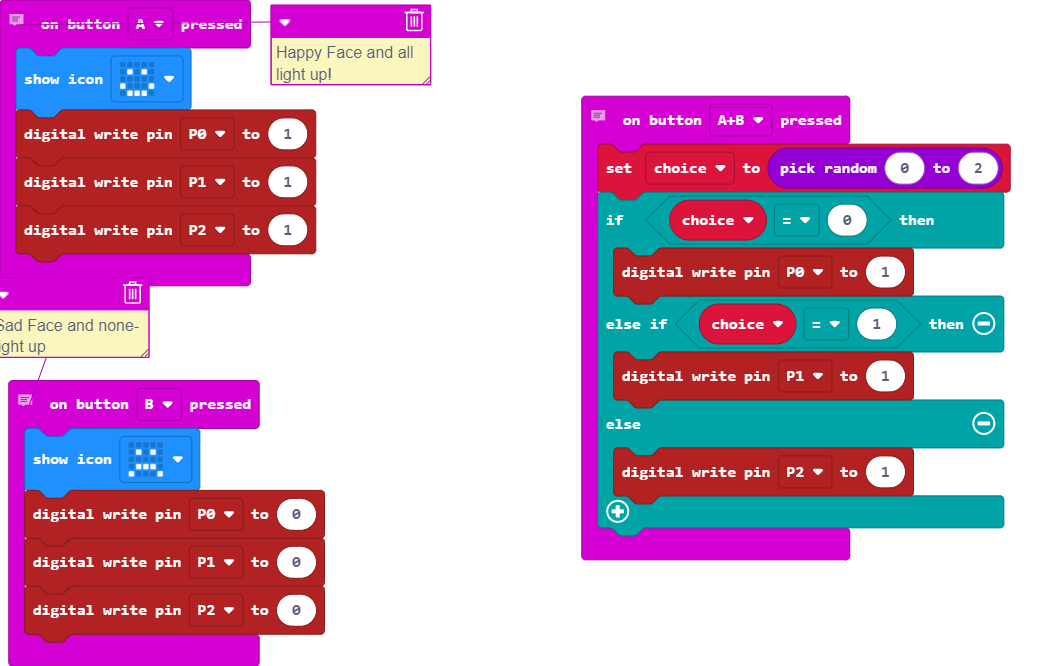
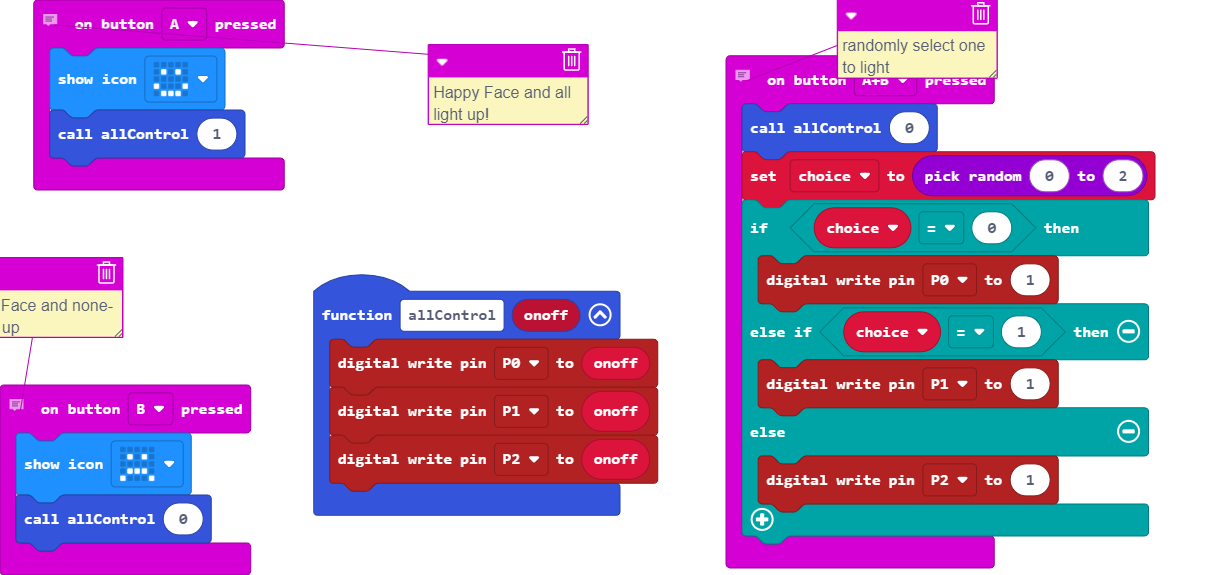
Update pxt.json, main.blocks, main.ts

diff --git a/main.ts b/main.ts
@@ -1,13 +1,17 @@
 let choice = 0
+function allControl (onoff: number) {
+    pins.digitalWritePin(DigitalPin.P0, onoff)
+    pins.digitalWritePin(DigitalPin.P1, onoff)
+    pins.digitalWritePin(DigitalPin.P2, onoff)
+}
 // Happy Face and all light up!
 input.onButtonPressed(Button.A, function () {
     basic.showIcon(IconNames.Happy)
-    pins.digitalWritePin(DigitalPin.P0, 1)
-    pins.digitalWritePin(DigitalPin.P1, 1)
-    pins.digitalWritePin(DigitalPin.P2, 1)
+    allControl(1)
 })
 // randomly select one to light
 input.onButtonPressed(Button.AB, function () {
+    allControl(0)
     choice = randint(0, 2)
     if (choice == 0) {
         pins.digitalWritePin(DigitalPin.P0, 1)
@@ -20,7 +24,5 @@ input.onButtonPressed(Button.AB, function () {
 // Sad Face and none-light up
 input.onButtonPressed(Button.B, function () {
     basic.showIcon(IconNames.Sad)
-    pins.digitalWritePin(DigitalPin.P0, 0)
-    pins.digitalWritePin(DigitalPin.P1, 0)
-    pins.digitalWritePin(DigitalPin.P2, 0)
+    allControl(0)
 })
